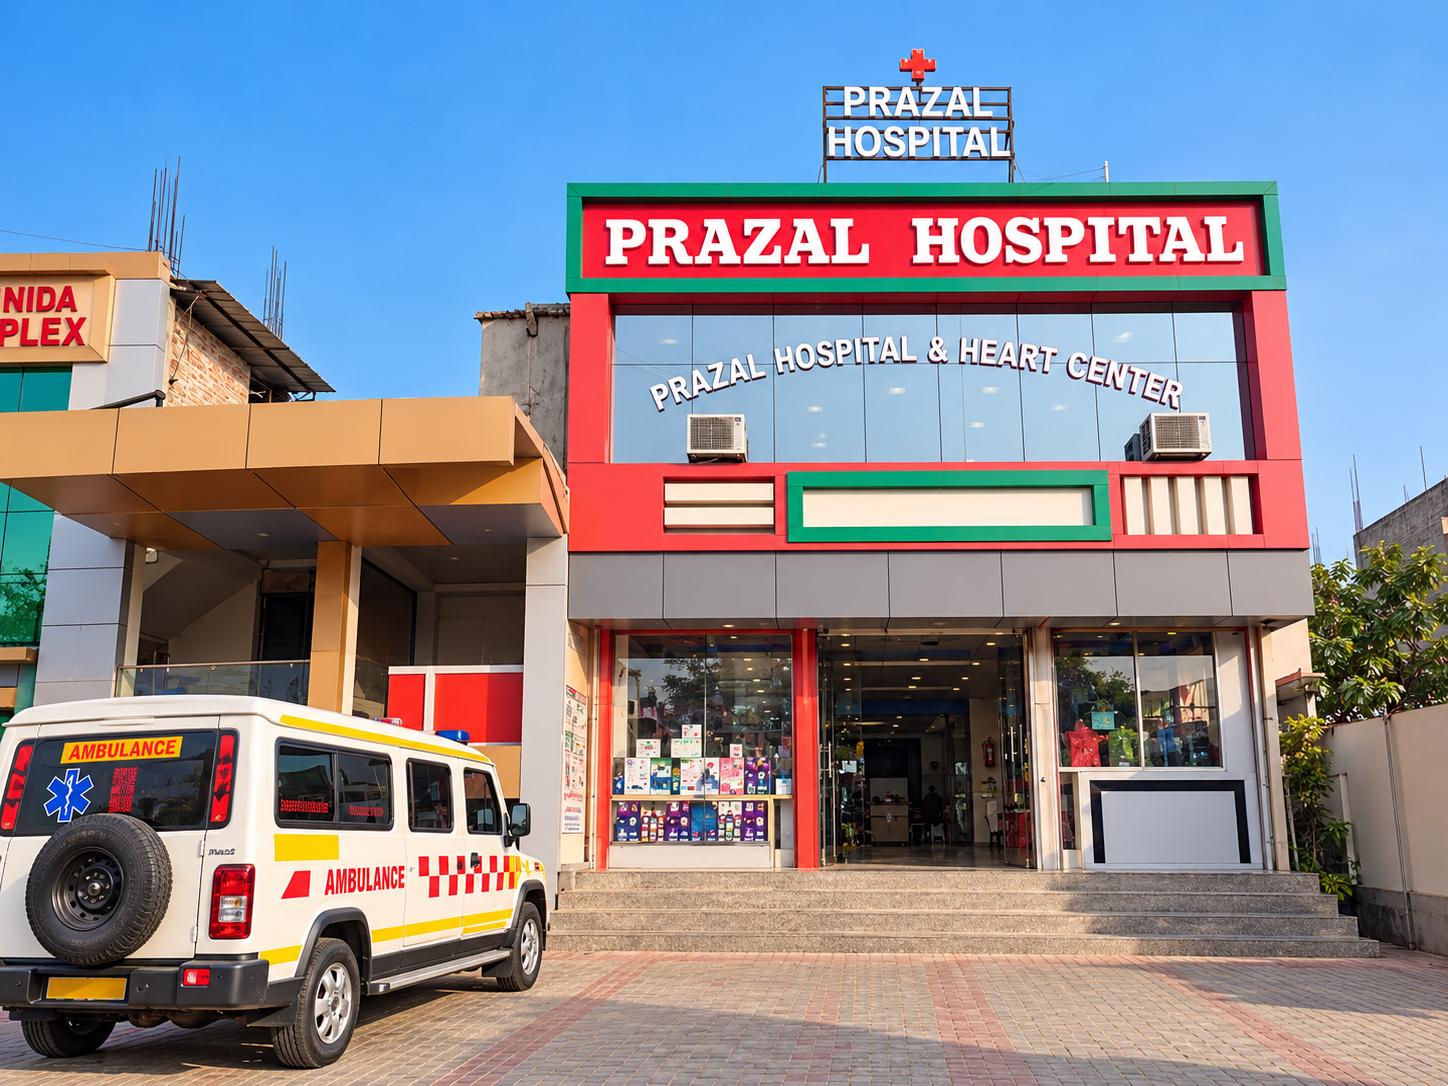
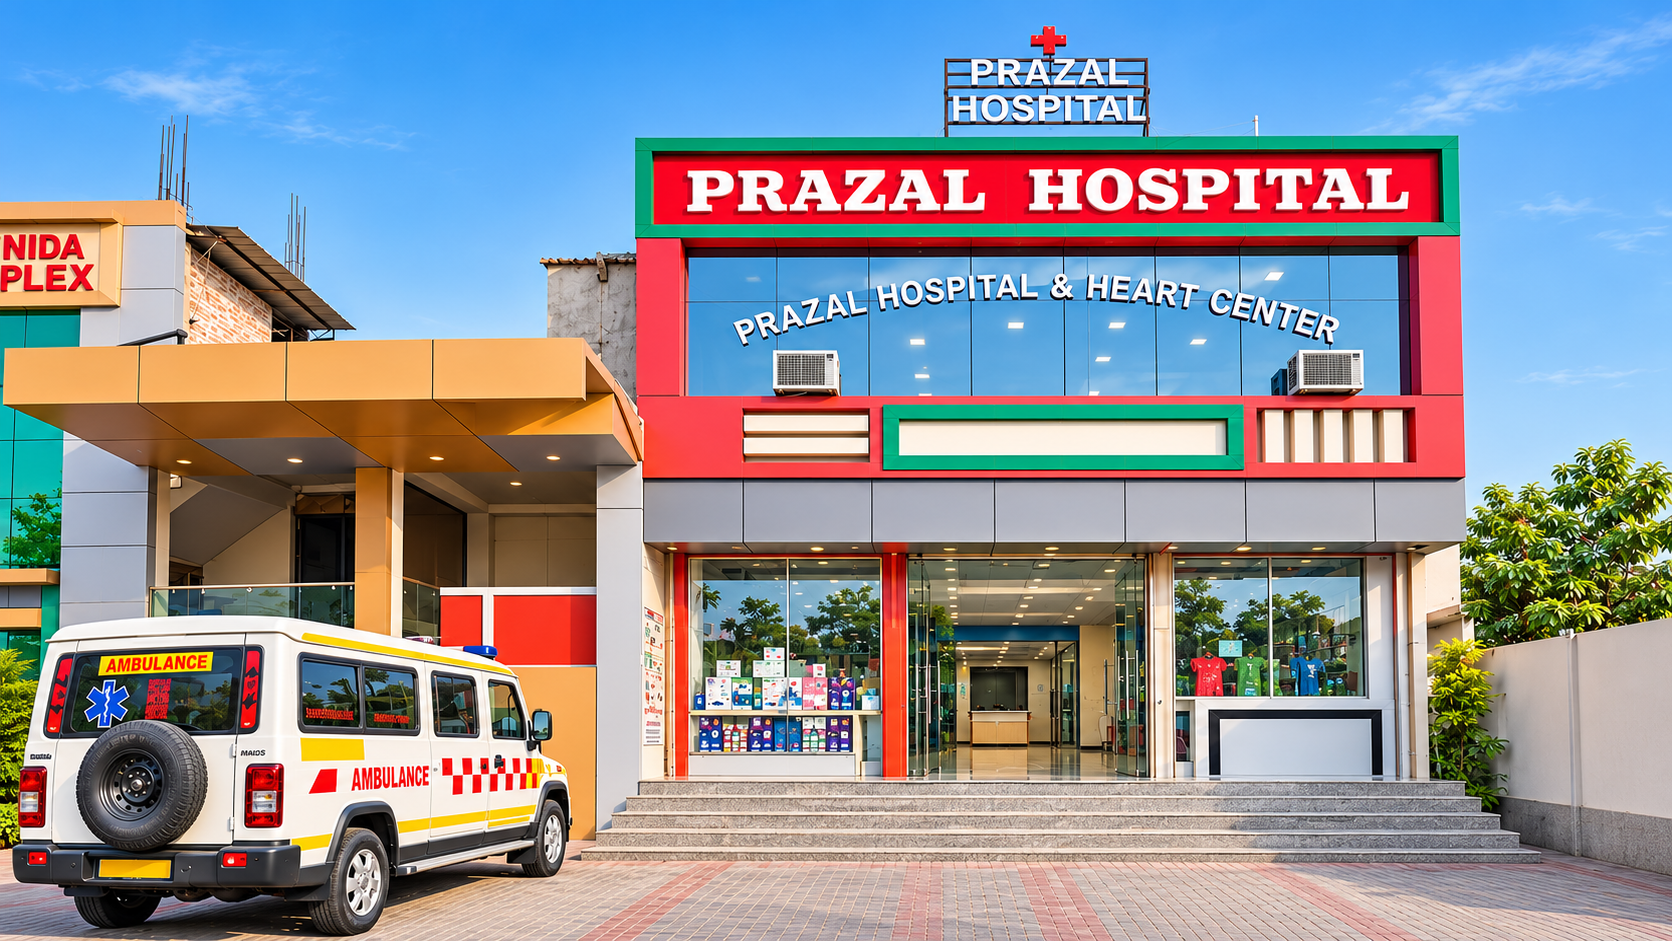
ghdja

diff --git a/ourcare.html b/ourcare.html
@@ -754,15 +754,14 @@
                                 <i class="bi bi-person"></i>
                             </div>
 
-                            <h3>Dr. Atif Malik</h3>
+                            <h3>Dr. A.K. Nayak</h3>
 
                             <div class="qualification">
-                                MBBS, DCC
+                                General Surgeon
                             </div>
 
                             <p>
-                                Skin and related specialist care.
-                                Former physician at Kaili Hospital, Basti.
+                                General surgical consultation and care.
                             </p>
 
                         </div>
@@ -778,14 +777,14 @@
                                 <i class="bi bi-person"></i>
                             </div>
 
-                            <h3>Dr. Akhilesh Madheshia</h3>
+                            <h3>Dr. A. Rahman</h3>
 
                             <div class="qualification">
-                                General Surgeon · MBBS (MGIMS)
+                                General Medicine
                             </div>
 
                             <p>
-                                General surgical consultation and treatment.
+                                General medical consultation and care.
                             </p>
 
                         </div>
@@ -801,20 +800,24 @@
                                 <i class="bi bi-person"></i>
                             </div>
 
-                            <h3>Dr. Kavita Gupta</h3>
+                            <h3>Dr. Q. Zafari</h3>
 
                             <div class="qualification">
-                                Gynaecologist · MBBS, DGO
+                                OBS (Obstetrics &amp; Gynaecology)
                             </div>
 
                             <p>
-                                Women's health, gynecological and maternity care.
+                                Obstetrics and gynaecology specialist.
                             </p>
 
                         </div>
 
                     </div>
 
+                </div>
+
+                <div class="text-center mt-4">
+                    <a class="btn btn-primary" href="doctors.html">View more</a>
                 </div>
 
             </div>

diff --git a/assets/css/premium.css b/assets/css/premium.css
@@ -172,12 +172,13 @@ body::before {
 .about-hero { background-image: url('https://images.unsplash.com/photo-1551601651-2a8555f1a136?q=90&w=1800&auto=format&fit=crop'); }
 .doctors-hero { background-image: url('https://images.unsplash.com/photo-1579684385127-1ef15d508118?q=90&w=1800&auto=format&fit=crop'); }
 .contact-hero:not(.about-hero):not(.doctors-hero):not(.gallery-hero) { background-image: url('https://images.unsplash.com/photo-1532938911079-1b06ac7ceec7?auto=format&fit=crop&w=1800&q=90'); }
-.gallery-hero::after { z-index: -1; background: linear-gradient(100deg, rgba(4,39,45,.94), rgba(4,49,53,.5)); }
+.gallery-hero::before { background: linear-gradient(100deg, rgba(4,39,45,.78) 0%, rgba(4,49,53,.42) 48%, rgba(4,49,53,.12) 100%); }
+.gallery-hero::after { content: none; }
 
 /* Homepage hero */
 .prazal-hero-section { background: var(--premium-ink); }
 .prazal-hero-image { height: min(78vh, 760px); min-height: 620px; transform: scale(1.025); }
-.prazal-hero-overlay { background: linear-gradient(90deg, rgba(3,35,41,.95) 0%, rgba(3,43,47,.78) 47%, rgba(3,43,47,.12) 100%); }
+.prazal-hero-overlay { background: linear-gradient(90deg, rgba(3,35,41,.78) 0%, rgba(3,43,47,.58) 47%, rgba(3,43,47,.12) 100%); }
 .prazal-hero-text h1 { max-width: 760px; font-size: clamp(3.2rem, 6vw, 5.5rem); letter-spacing: -.045em; }
 .prazal-hero-text p { max-width: 650px; }
 .prazal-hero-indicators button { transition: width .35s ease, opacity .35s ease; }
@@ -283,9 +284,10 @@ body::before {
     .topbar-rating { display: none; }
     .brand-logo { width: 44px; height: 44px; }
     .contact-hero, .care-hero { min-height: 420px; padding: 4rem 0; }
-    .contact-hero::before, .care-hero::before { background: linear-gradient(90deg, rgba(4,39,45,.94), rgba(4,49,53,.76)); }
+    .contact-hero:not(.gallery-hero)::before, .care-hero::before { background: linear-gradient(90deg, rgba(4,39,45,.94), rgba(4,49,53,.76)); }
     .prazal-hero-text h1 { font-size: clamp(2.75rem, 12vw, 4rem); }
     .prazal-hero-text p { font-size: 1rem; }
+    .prazal-hero-overlay { background: linear-gradient(180deg, rgba(3,43,47,.52), rgba(3,43,47,.78)); }
     .prazal-hero-buttons .btn, .prazal-cta-buttons .btn { width: 100%; text-align: center; }
     .floating-actions { right: .9rem; bottom: .9rem; }
     .floating-action { width: 48px; height: 48px; }

diff --git a/assets/css/style.css b/assets/css/style.css
@@ -178,7 +178,7 @@ footer .bi { color: var(--coral); }
 .contact-hero { padding: 4.5rem 0 3.5rem; background-color: var(--mint); background-image: linear-gradient(rgba(233, 245, 241, .64), rgba(233, 245, 241, .64)), url('https://images.unsplash.com/photo-1532938911079-1b06ac7ceec7?auto=format&fit=crop&w=1600&q=85'); background-position: center; background-size: cover; }
 .about-hero { background-image: linear-gradient(rgba(233, 245, 241, .58), rgba(233, 245, 241, .58)), url('https://images.unsplash.com/photo-1551601651-2a8555f1a136?q=90&w=1600&auto=format&fit=crop'); }
 .doctors-hero { background-image: linear-gradient(rgba(233, 245, 241, .62), rgba(233, 245, 241, .62)), url('https://images.unsplash.com/photo-1579684385127-1ef15d508118?q=90&w=1600&auto=format&fit=crop'); background-position: center 72%; }
-.gallery-hero { position: relative; isolation: isolate; overflow: hidden; background: var(--ink) url('../images/Prazal Hospital Entrance with Ambulance.png') center 58% / cover no-repeat; }
+.gallery-hero { position: relative; isolation: isolate; overflow: hidden; background: var(--ink) url('../images/Prazal Hospital Entrance with Ambulance.png') center 30% / cover no-repeat; }
 .gallery-hero::after { content: ''; position: absolute; inset: 0; z-index: -1; background: rgba(233, 245, 241, .66); }
 .gallery-hero-video { position: absolute; inset: 0; z-index: -2; width: 100%; height: 100%; object-fit: cover; object-position: center; }
 .gallery-hero-content { position: relative; z-index: 1; }
@@ -1033,6 +1033,7 @@ footer .bi { color: var(--coral); }
 .prazal-hero-buttons {
     display: flex;
     flex-wrap: wrap;
+    justify-content: center;
     gap: 13px;
 }
 
@@ -1136,15 +1137,15 @@ footer .bi { color: var(--coral); }
     }
 
     .prazal-hero-image--facade {
-        object-position: 50% center;
+        object-position: 62% center;
     }
 
     .prazal-hero-overlay {
         background:
             linear-gradient(
                 180deg,
-                rgba(7,48,53,.68),
-                rgba(7,48,53,.94)
+                rgba(7,48,53,.52),
+                rgba(7,48,53,.78)
             );
     }
 

diff --git a/assets/css/home-cinematic.css b/assets/css/home-cinematic.css
@@ -77,20 +77,6 @@ html.home-loader-pending body > :not(.home-intro-loader) { visibility: hidden; }
 @keyframes homeHeroSheen { to { background-position: 0 0, -220% 0; } }
 
 .home-ambient-layer { position: absolute; inset: 0; z-index: 4; pointer-events: none; overflow: hidden; }
-.home-orbit {
-    position: absolute;
-    width: min(42vw, 610px);
-    aspect-ratio: 1;
-    right: -9%;
-    top: 11%;
-    border: 1px solid rgba(255,255,255,.12);
-    border-radius: 50%;
-    animation: homeOrbitSpin 28s linear infinite;
-}
-.home-orbit::before, .home-orbit::after { content: ""; position: absolute; border-radius: 50%; }
-.home-orbit::before { inset: 13%; border: 1px dashed rgba(255,255,255,.12); }
-.home-orbit::after { width: 12px; height: 12px; top: 20%; left: 3.5%; background: #ff8d71; box-shadow: 0 0 22px rgba(255,141,113,.8); }
-@keyframes homeOrbitSpin { to { transform: rotate(360deg); } }
 
 .home-particle { position: absolute; color: rgba(255,255,255,.28); font-size: var(--particle-size); animation: homeParticleFloat var(--particle-duration) ease-in-out infinite alternate; animation-delay: var(--particle-delay); }
 .home-particle::before { content: "+"; }
@@ -220,7 +206,7 @@ html.home-loader-pending body > :not(.home-intro-loader) { visibility: hidden; }
 .home-magnetic { will-change: transform; }
 
 @media (max-width: 991.98px) {
-    .home-vitals, .home-orbit, .home-scene-rail { display: none; }
+    .home-vitals, .home-scene-rail { display: none; }
     #prazal-home-hero::after { background-size: 44px 44px; opacity: .1; }
     .home-service-item { padding: 0 1.3rem; }
 }

diff --git a/index.html b/index.html
@@ -537,9 +537,9 @@
 					<!-- SLIDE 1 -->
 					<div class="carousel-item active">
 
-						<img src="assets/images/Prazal Hospital Entrance with Ambulance.png"
+						<img src="assets/images/prazalinsideward.png"
 							class="d-block w-100 prazal-hero-image prazal-hero-image--entrance"
-							alt="Prazal Hospital entrance with an ambulance">
+							alt="Inside a patient ward at Prazal Hospital">
 
 						<div class="prazal-hero-overlay"></div>
 
@@ -632,9 +632,9 @@
 					<!-- SLIDE 3 -->
 					<div class="carousel-item">
 
-						<img src="assets/images/Modern Pra her Hospital Facade.png"
+						<img src="assets/images/Prazal Hospital Hero Exterior.png"
 							class="d-block w-100 prazal-hero-image prazal-hero-image--facade"
-							alt="Front façade of Prazal Hospital and Heart Center">
+							alt="Prazal Hospital and Heart Center exterior with ambulance">
 
 						<div class="prazal-hero-overlay"></div>
 

diff --git a/assets/js/home-cinematic.js b/assets/js/home-cinematic.js
@@ -39,7 +39,6 @@
         const layer = document.createElement('div');
         layer.className = 'home-ambient-layer';
         layer.setAttribute('aria-hidden', 'true');
-        layer.innerHTML = '<div class="home-orbit"></div>';
         for (let index = 0; index < 9; index += 1) {
             const particle = document.createElement('span');
             particle.className = 'home-particle';
